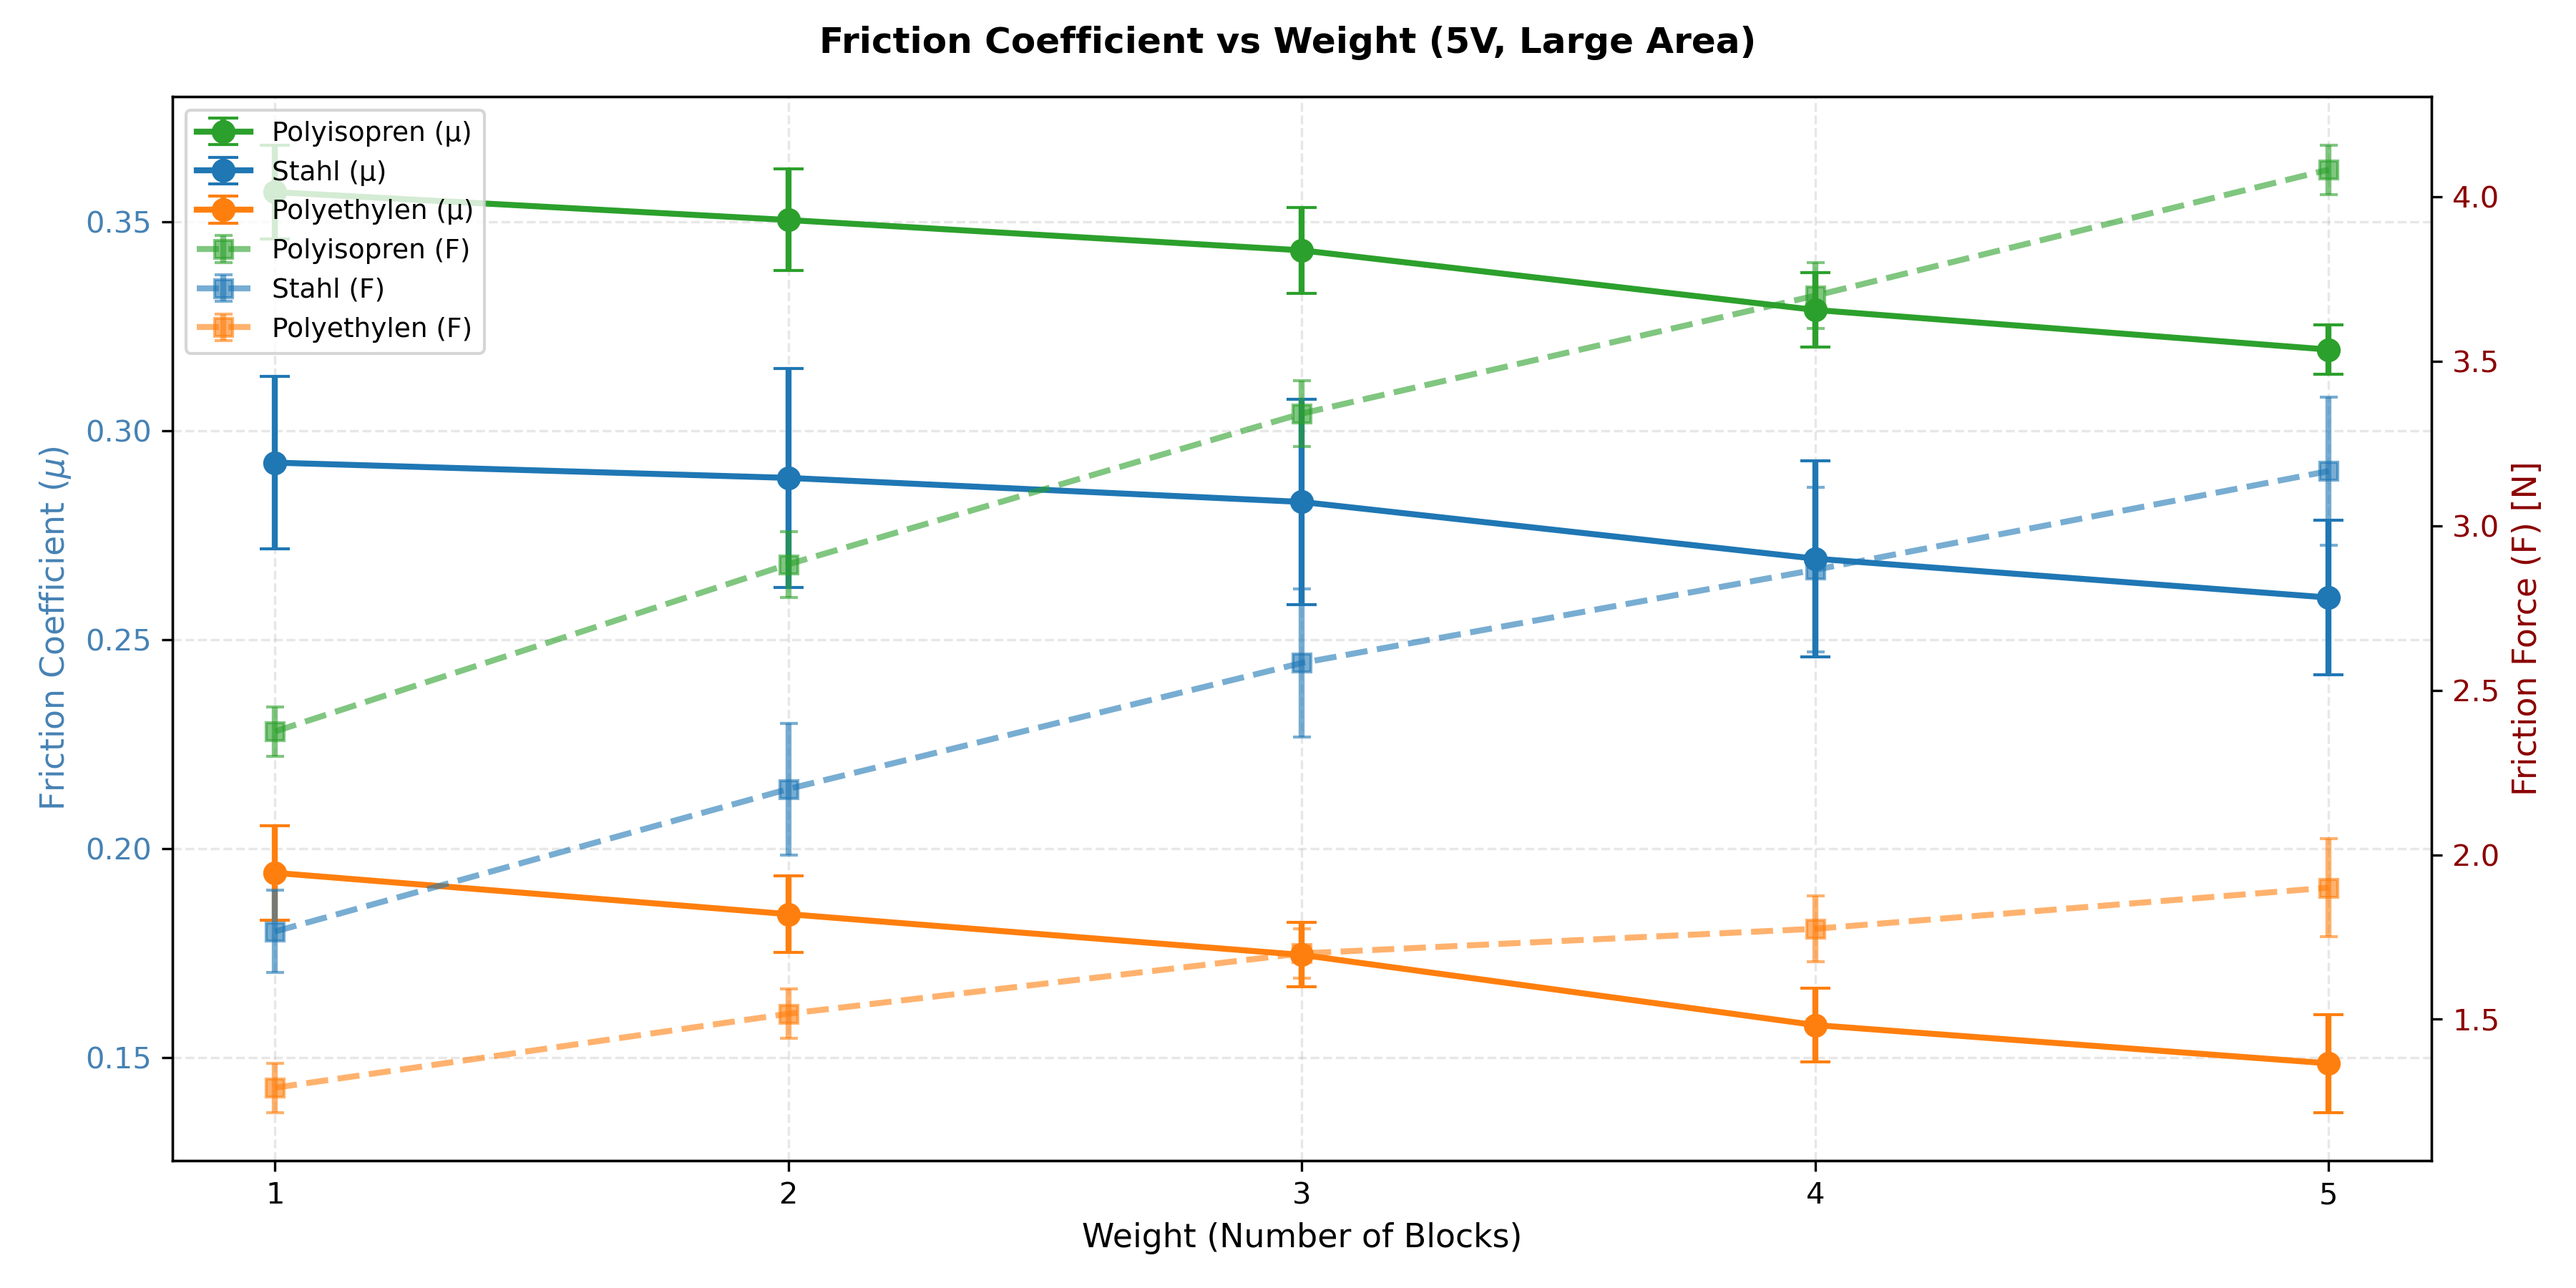
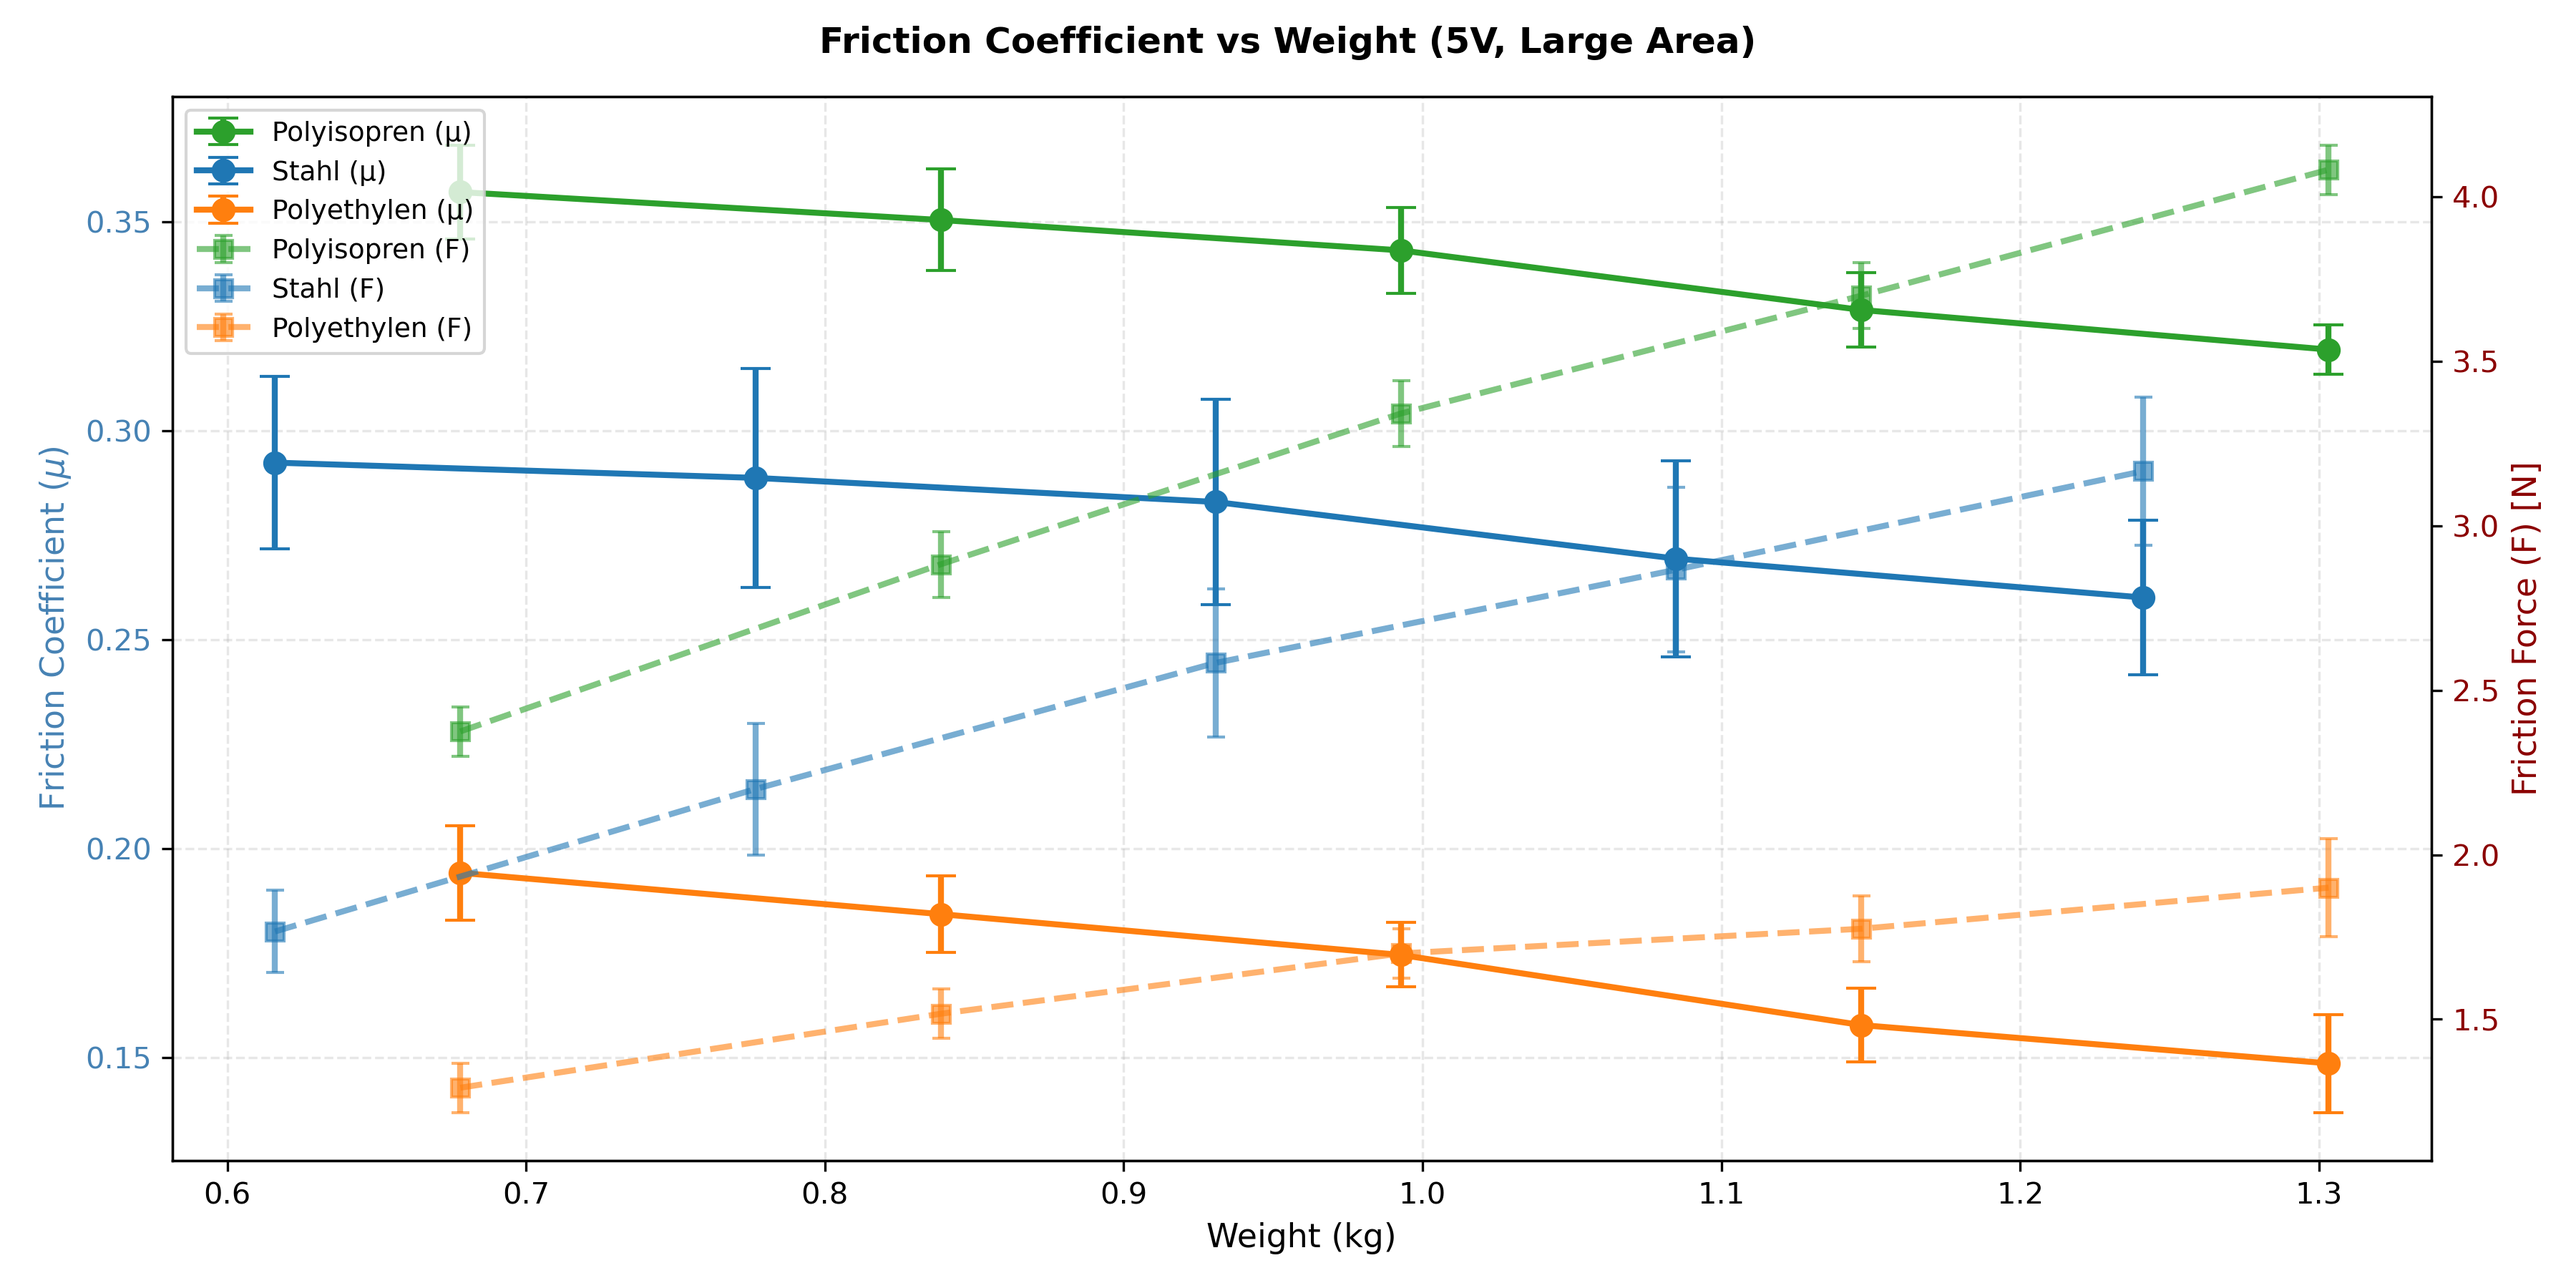
fertig

diff --git a/src/plot_generator.py b/src/plot_generator.py
@@ -23,6 +23,7 @@ def plot_mu_vs_force(df, output_path):
     r"""图1: 摩擦系数 vs 重量 (重量变化实验)
     左Y轴: 摩擦系数 μ
     右Y轴: 摩擦力 F
+    横轴: 重量 (kg)
     """
     fig, ax1 = plt.subplots(figsize=(12, 6))
     
@@ -31,41 +32,42 @@ def plot_mu_vs_force(df, output_path):
     
     # 聚合 (取均值和最大误差)
     agg_df = subset.groupby(['Material', 'Block_Config']).agg(
+        mass_g=('Mass_g_Avg', 'mean'),
         mu_avg=('mu_avg', 'mean'),
         mu_delta=('mu_delta', 'max'),
         messwert_avg=('Messwert_Avg', 'mean'),
         messwert_delta=('Messwert_Delta', 'max')
     ).reset_index()
 
-    # 排序并添加重量编号
+    # 排序
     block_order = ['B', 'B+1', 'B+1+2', 'B+1+2+3', 'B+1+2+3+4']
     agg_df['Block_Config'] = pd.Categorical(agg_df['Block_Config'], categories=block_order, ordered=True)
-    agg_df = agg_df.sort_values('Block_Config')
-    # 将Block_Config映射到数字重量 (1, 2, 3, 4, 5)
-    agg_df['Weight'] = agg_df['Block_Config'].cat.codes + 1
+    agg_df = agg_df.sort_values(['Block_Config'])
+    
+    # 将重量从克转换为千克
+    agg_df['Weight_kg'] = agg_df['mass_g'] / 1000.0
 
     # 颜色定义
     colors = {'Stahl': '#1f77b4', 'Weiss': '#ff7f0e', 'Schwarz': '#2ca02c'}
     
     # 绘制μ (左Y轴) - 线条图
     for mat in agg_df['Material'].unique():
-        mat_data = agg_df[agg_df['Material'] == mat]
-        ax1.errorbar(mat_data['Weight'], mat_data['mu_avg'], yerr=mat_data['mu_delta'], 
+        mat_data = agg_df[agg_df['Material'] == mat].sort_values('Weight_kg')
+        ax1.errorbar(mat_data['Weight_kg'], mat_data['mu_avg'], yerr=mat_data['mu_delta'], 
                      label=f"{get_material_label(mat)} (μ)", fmt='-o', capsize=5, 
                      color=colors.get(mat, None), linewidth=2, markersize=7)
 
-    ax1.set_xlabel('Weight (Number of Blocks)', fontsize=11)
+    ax1.set_xlabel('Weight (kg)', fontsize=11)
     ax1.set_ylabel(r'Friction Coefficient ($\mu$)', fontsize=11, color='steelblue')
     ax1.tick_params(axis='y', labelcolor='steelblue')
-    ax1.set_xticks([1, 2, 3, 4, 5])
     ax1.grid(True, linestyle='--', alpha=0.3)
 
     # 创建右Y轴 (摩擦力F)
     ax2 = ax1.twinx()
     
     for mat in agg_df['Material'].unique():
-        mat_data = agg_df[agg_df['Material'] == mat]
-        ax2.errorbar(mat_data['Weight'], mat_data['messwert_avg'], yerr=mat_data['messwert_delta'], 
+        mat_data = agg_df[agg_df['Material'] == mat].sort_values('Weight_kg')
+        ax2.errorbar(mat_data['Weight_kg'], mat_data['messwert_avg'], yerr=mat_data['messwert_delta'], 
                     fmt='--s', color=colors.get(mat, None), linewidth=2, 
                     markersize=6, capsize=3, label=f"{get_material_label(mat)} (F)", alpha=0.6)
 
@@ -163,11 +165,15 @@ def plot_mu_vs_area(df, output_path):
     
     # 聚合
     agg_df = subset.groupby(['Material', 'Area_Type', 'Area_cm2']).agg(
+        mass_g=('Mass_g_Avg', 'mean'),
         mu_avg=('mu_avg', 'mean'),
         mu_delta=('mu_delta', 'max'),
         messwert_avg=('Messwert_Avg', 'mean'),
         messwert_delta=('Messwert_Delta', 'max')
     ).reset_index()
+    
+    # 将重量从克转换为千克
+    agg_df['weight_kg'] = agg_df['mass_g'] / 1000.0
 
     # 颜色定义
     colors = {'Stahl': '#1f77b4', 'Weiss': '#ff7f0e', 'Schwarz': '#2ca02c'}
@@ -175,6 +181,8 @@ def plot_mu_vs_area(df, output_path):
     # 绘制μ的线条图 (左Y轴) - 按面积排序
     for mat in agg_df['Material'].unique():
         mat_data = agg_df[agg_df['Material'] == mat].sort_values('Area_cm2')
+        # 创建包含重量信息的标签
+        labels = [f"{get_material_label(mat)} (μ)\n{w:.2f} kg" for w in mat_data['weight_kg']]
         ax1.errorbar(mat_data['Area_cm2'], mat_data['mu_avg'], yerr=mat_data['mu_delta'],
                      label=f"{get_material_label(mat)} (μ)", fmt='-o', capsize=5,
                      color=colors.get(mat, None), linewidth=2, markersize=7)
